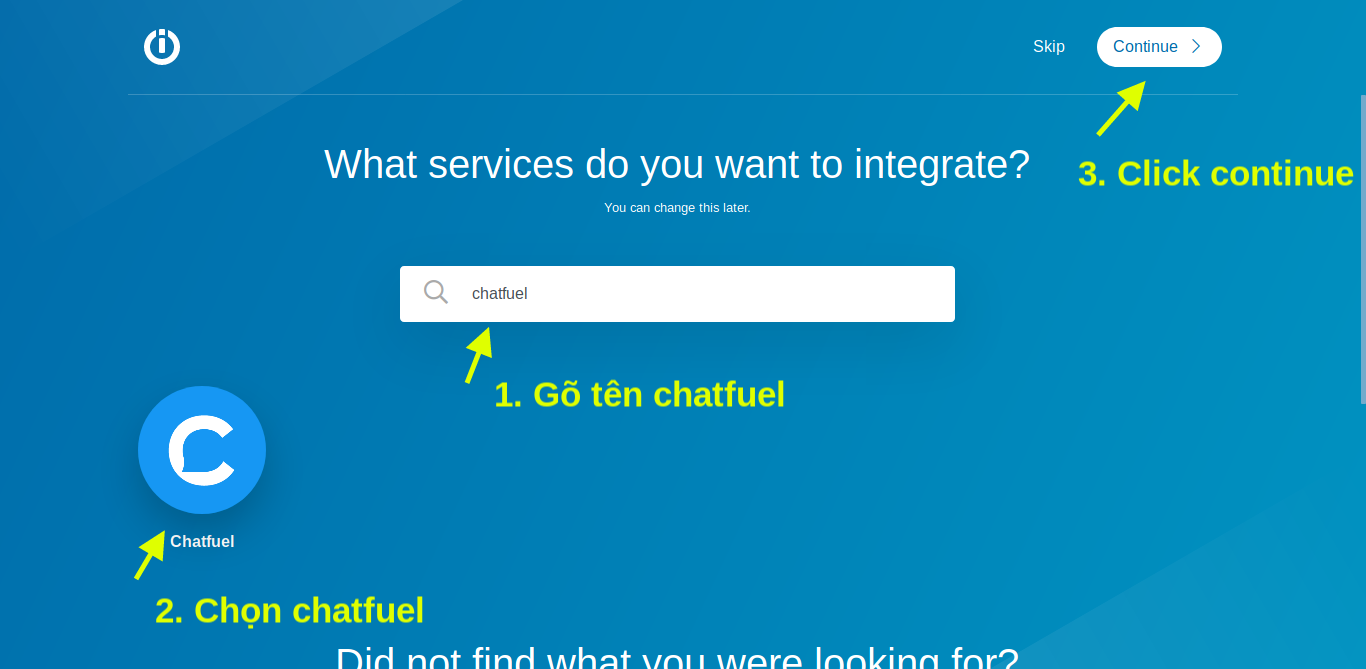
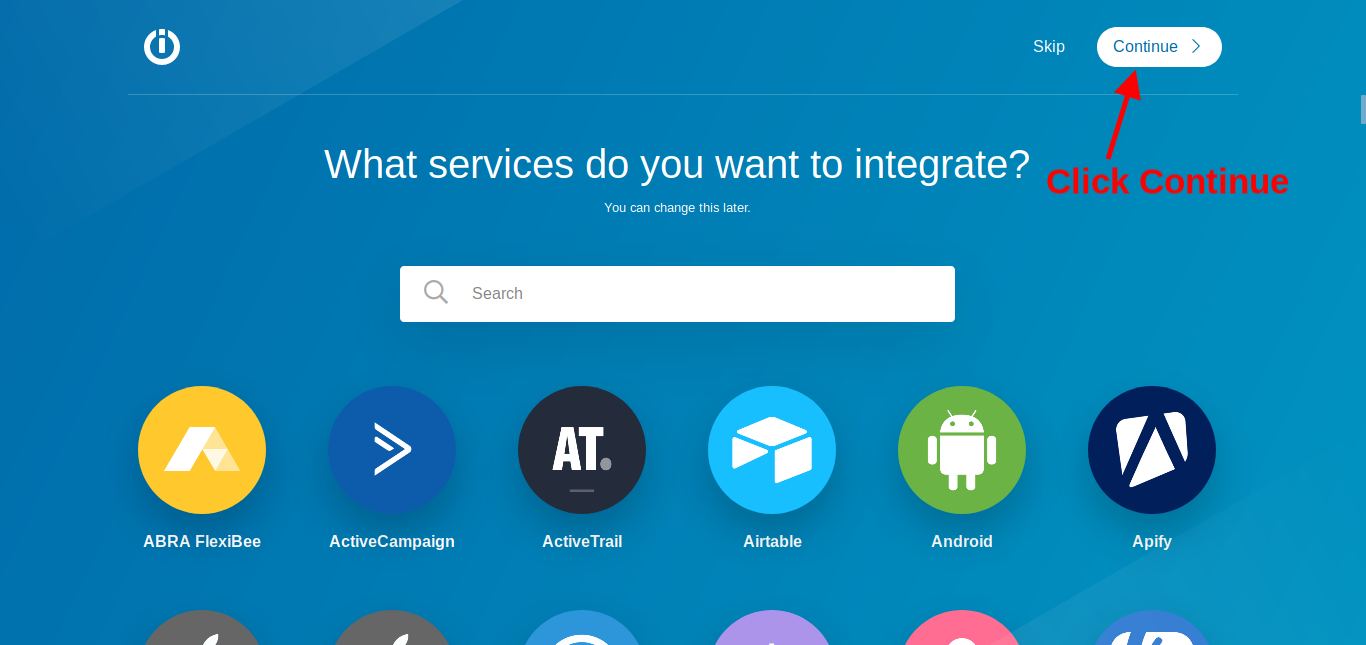
Hướng dẫn kết nối

diff --git a/KetNoiChatfuelGoogleDrive.html b/KetNoiChatfuelGoogleDrive.html
@@ -4,17 +4,56 @@
 		<meta charset="utf-8">
 		<title>Hướng dẫn chatfuel</title>
 		<link rel="stylesheet" href="https://stackpath.bootstrapcdn.com/bootstrap/4.1.3/css/bootstrap.min.css" integrity="sha384-MCw98/SFnGE8fJT3GXwEOngsV7Zt27NXFoaoApmYm81iuXoPkFOJwJ8ERdknLPMO" crossorigin="anonymous">
+		<style media="screen">
+			.img-responsive {
+				max-width: 50%;
+				margin-bottom: 40px;
+			}
+		</style>
 	</head>
 	<body>
 	<div class="container">
 	<h1>Hướng dẫn kết nối Chatfuel và Google Sheets</h1>
 	<p><b>Cách làm: </b></p>
-	<p> Chatfuel thu thập thông tin khách hàng -> Chuyển thông tin cho hệ thống Intergromat -> Intergromat điền thông tin vào bảng Google Sheets </p>
-	<h2>1. Kết nối Chatfuel và Intergromat</h2>
-
-	<h2>2. Kết nối Intergromat và Google Sheets</h2>
-
+	<p>Nguyên tắc để chuyển thông tin khách hàng từ Chatfuel sang Google Sheets như sau:</p>
+	<p> Chatfuel thu thập thông tin khách hàng -> Chuyển thông tin cho hệ thống Integromat -> Integromat điền thông tin vào bảng Google Sheets </p>
+	<h2>1. Kết nối Chatfuel và Integromat</h2>
+	<h4>Bước 1. Đăng nhập vào Integromat</h4>
+	<p>Vào trang <a href="https://www.integromat.com/">www.integromat.com</a>, trang có giao diện như sau: </p>
+	<img src="img/1-integromat-website.png" class="img-responsive" alt="Trang chủ">
+	<p>Nếu bạn chưa có tài khoản thì ấn <b>Sign up</b> để đăng ký bằng tài khoản Google. Nếu đã có tài khoản thì chọn <b>Sign in</b> </p>
+	<img src="img/2-integromat-login.png" class="img-responsive" alt="Login">
+	<p>Sau khi đăng nhập ta vào giao diện dashboard, chọn <b>Create a new Scenario</b> để tạo kịch bản kết nối.</p>
+	<img src="img/3-integromat-dashboard.png" class="img-responsive" alt="Dashboard">
+	<p>Đến trang chọn Services, ta ấn <b>Continue</b> để bỏ qua</p>
+	<img src="img/4-integromat-chatfuel-selected.png" class="img-responsive" alt="Chatfuel">
+	<h4>Bước 2. Tạo kết nối với Chatfuel</h4>
+	<p>Sau khi vào trang Scenario, bạn click vào ô có dấu hỏi để tạo kết nối, tìm và lựa chọn ứng dụng Chatfuel</p>
+	<img src="img/5-integromat-chatfuel-start-scenario.png" class="img-responsive" alt="Chatfuel">
+	<p>Sau đó bạn chọn JSON Listener:</p>
+	<img src="img/6-integromat-chatfuel-json-listener.png" class="img-responsive" alt="Chatfuel">
+	<p>Bạn click nút <b>Add</b>, đặt tên cho webhook rồi ấn <b>Save</b></p>
+	<img src="img/7-integromat-chatfuel-webhook.png" class="img-responsive" alt="Chatfuel">
+	<p>Sau khi hiện kết quả như bên dưới, bạn ấn <b>Copy address to Clipboard</b> để lưu đường dẫn đã tạo</p>
+	<img src="img/8-integromat-chatfuel-webhook-copy.png" class="img-responsive" alt="Chatfuel">
+	<p>Quay lại Chatfuel, dưới block thu thập thông tin khách hàng, bạn thêm block <b>JSON API</b> để gửi thông tin sang Integromat</p>
+	<p>Bạn lựa chọn method là POST, dán link đã copy vào ô URL, điền các thông tin cần gửi vào ô <b>USER ATTRIBUTES</b> (ví dụ: Tên Khách hàng, Điện thoại, Địa chỉ, v.v..)</p>
+	<img src="img/9-chatfuel-webhook-paste.png" class="img-responsive" alt="Chatfuel">
+	<p>Như vậy là bạn đã hoàn tất bước kết nối từ Chatfuel đến Integromat. Tiếp theo ta sẽ kết nối Integromat và Google Sheets</p>
+	<h2>2. Kết nối Integromat và Google Sheets</h2>
+	<p>Quay lại trang Scenario của Integromat, bạn click vào hình tròn khuyết bên cạnh biểu tượng Chatfuel</p>
+	<img src="img/10-integromat-new-connection.png" class="img-responsive" alt="Chatfuel">
+	<p>Bạn tìm và chọn ứng dụng Google Sheets</p>
+	<img src="img/11-integromat-google-sheets.png" class="img-responsive" alt="Chatfuel">
+	<p>Chọn <b>Add a row</b></p>
+	<img src="img/12-integromat-google-sheets-add-row.png" class="img-responsive" alt="Chatfuel">
+	<p>Sau đó bạn chọn bảng tính Google Sheets lưu thông tin khách hàng và nối từng giá trị với từng cột trong bảng tính, cuối cùng click <b>OK</b></p>
+	<img src="img/13-integromat-match-value.png" class="img-responsive" alt="Chatfuel">
 	<h2>3. Chạy thử</h2>
+	<p>Sau khi hoàn tất, bạn click biểu tượng save để lưu và bật nút kết nối ở chế độ On</p>
+	<img src="img/14-on-connection.png" class="img-responsive" alt="Chatfuel">
+	<p>Như vậy việc kết nối đã hoàn thành, bạn chạy thử  Chatbot, điền thông tin, sau đó kiểm tra Google Sheets. Nếu thông tin lưu thành dòng mới trên Google Sheets là bạn đã thành công.</p>
+	<img src="img/15-success.png" class="img-responsive" alt="Chatfuel">
 	</div>
 	</body>
 </html>
